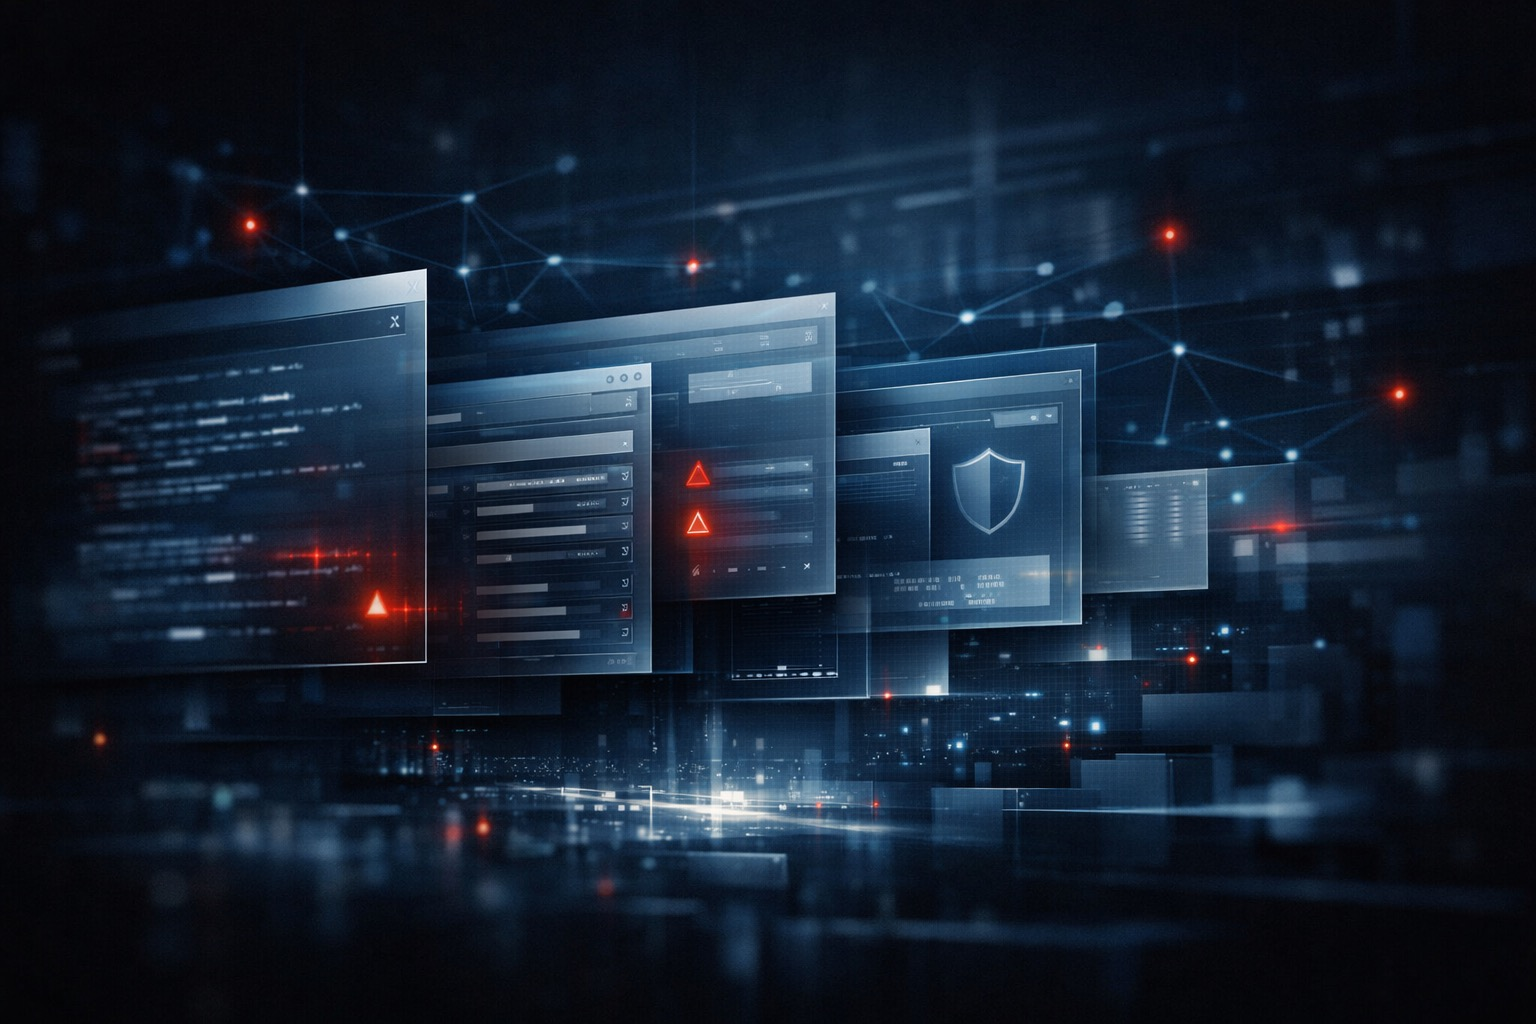
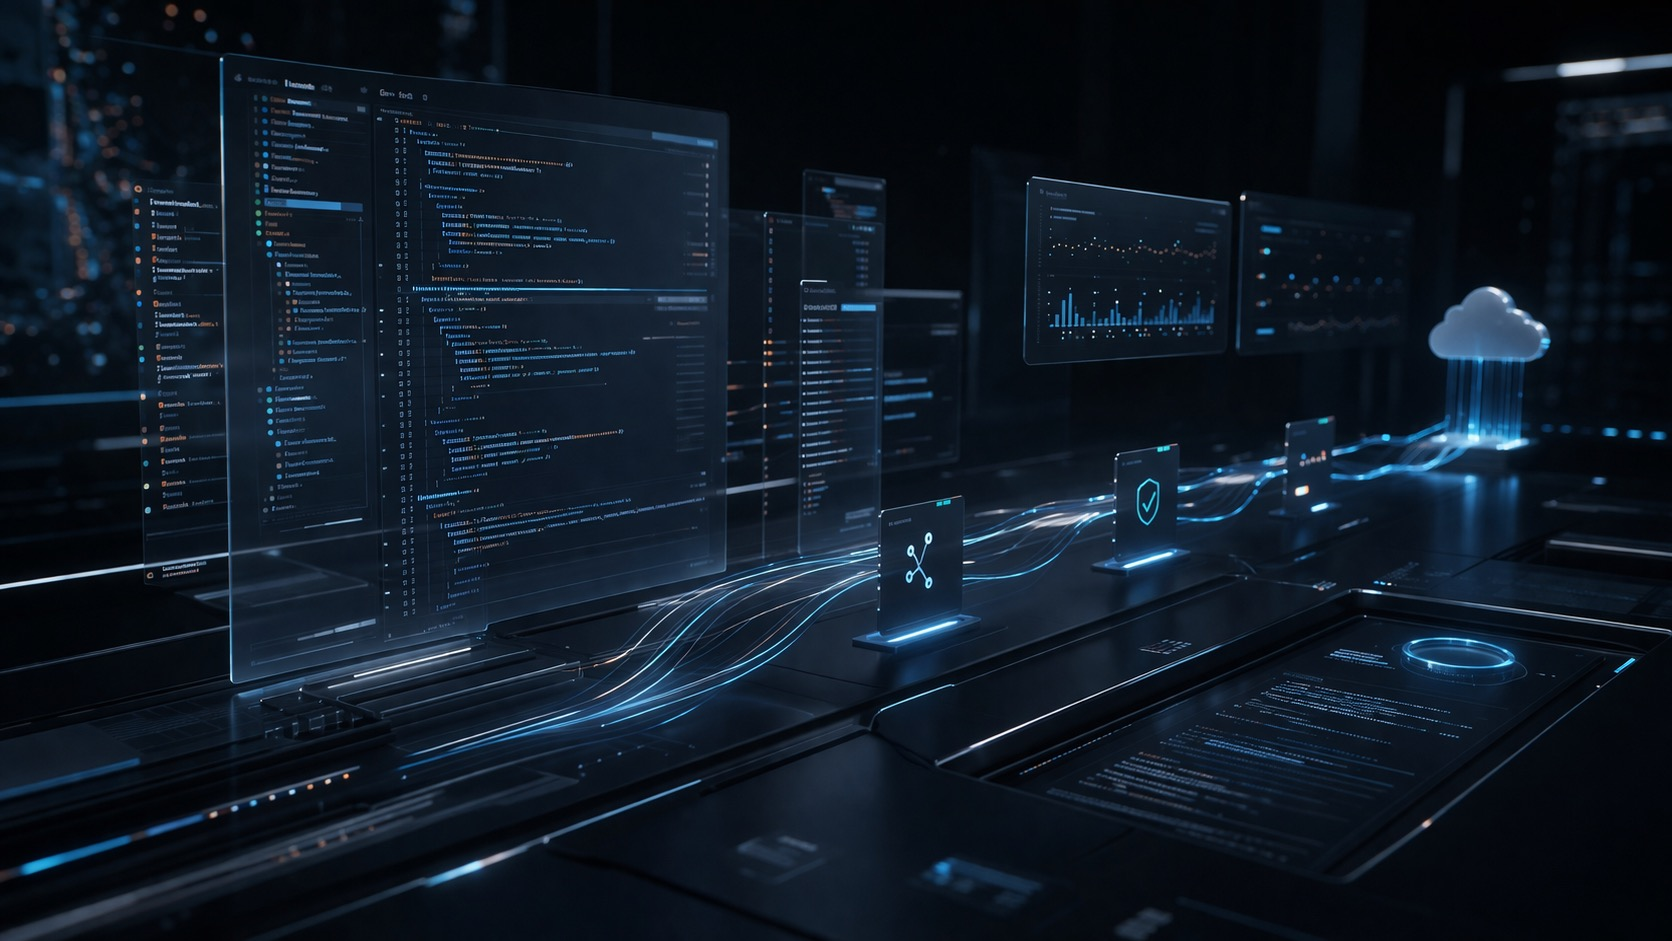
Add new homepage hero and align blog/article image usage

diff --git a/src/pages/JournalIndex.jsx b/src/pages/JournalIndex.jsx
@@ -3,10 +3,7 @@ import { IconArrow, IconPen, IconRadar, IconTerm } from "../components/Icons";
 import { posts, formatPostDate } from "../content/posts";
 import { usePageMetadata } from "../lib/metadata";
 import { getJournalIndexMetadata } from "../lib/pageMetadata";
-import {
-  getJournalCoverImage,
-  getPostCardImage,
-} from "../lib/postImages";
+import { getPostCardImage } from "../lib/postImages";
 import {
   buildHomeSectionPath,
   buildPostPath,
@@ -22,7 +19,6 @@ const COVERAGE_AREAS = [
 export default function JournalIndex() {
   const [featuredPost, ...archivePosts] = posts;
   const nextReadPost = archivePosts[0] ?? featuredPost;
-  const coverImage = getJournalCoverImage();
   const featuredCardImage = getPostCardImage(featuredPost);
 
   usePageMetadata(getJournalIndexMetadata());
@@ -118,17 +114,6 @@ export default function JournalIndex() {
               </a>
             </article>
           </div>
-
-          <figure className="journal-cover reveal revealed">
-            <img
-              src={coverImage.src}
-              alt={coverImage.alt}
-              className="journal-cover-image"
-              loading="eager"
-              decoding="async"
-              fetchPriority="high"
-            />
-          </figure>
         </div>
       </section>
 
@@ -155,19 +140,21 @@ export default function JournalIndex() {
 
                   return (
                     <article className="journal-row" key={post.slug}>
-                      <a
-                        href={buildPostPath(post)}
-                        className="journal-row-media"
-                        aria-label={`Read ${post.title}`}
-                      >
-                        <img
-                          src={cardImage.src}
-                          alt={cardImage.alt}
-                          className="journal-row-image"
-                          loading="lazy"
-                          decoding="async"
-                        />
-                      </a>
+                      {cardImage ? (
+                        <a
+                          href={buildPostPath(post)}
+                          className="journal-row-media"
+                          aria-label={`Read ${post.title}`}
+                        >
+                          <img
+                            src={cardImage.src}
+                            alt={cardImage.alt}
+                            className="journal-row-image"
+                            loading="lazy"
+                            decoding="async"
+                          />
+                        </a>
+                      ) : null}
                       <div className="journal-row-body">
                         <div className="journal-row-head">
                           <div className="journal-row-category">{post.category}</div>

diff --git a/src/styles/journal.css b/src/styles/journal.css
@@ -160,23 +160,6 @@
   line-height: 1.8;
   color: var(--ts);
 }
-.journal-cover {
-  margin-top: 32px;
-  border: 1px solid var(--b1);
-  background: rgba(7,7,15,0.88);
-  position: relative;
-  overflow: hidden;
-  aspect-ratio: 16 / 7;
-}
-.journal-cover::before {
-  content: '';
-  position: absolute;
-  inset: 0 0 auto;
-  height: 1px;
-  background: linear-gradient(90deg, transparent, var(--cyan), transparent);
-  opacity: .38;
-  z-index: 1;
-}
 .journal-chip-row {
   display: flex;
   flex-wrap: wrap;
@@ -399,6 +382,7 @@
 .article-dek { margin-top: 18px; }
 .article-hero-media {
   margin-top: 24px;
+  max-width: 980px;
   border: 1px solid var(--b1);
   background: rgba(7,7,15,0.88);
   position: relative;

diff --git a/src/lib/schema.js b/src/lib/schema.js
@@ -75,9 +75,9 @@ export function getJournalArticleSchema(post) {
     inLanguage: "en-GB",
     author: { "@id": PERSON_ID },
     publisher: { "@id": PERSON_ID },
-    image: buildAbsoluteUrl(socialImage.imagePath),
-    primaryImageOfPage: buildAbsoluteUrl(socialImage.imagePath),
-    thumbnailUrl: buildAbsoluteUrl(socialImage.imagePath),
+    image: buildAbsoluteUrl(socialImage.src),
+    primaryImageOfPage: buildAbsoluteUrl(socialImage.src),
+    thumbnailUrl: buildAbsoluteUrl(socialImage.src),
     articleSection: post.category,
     keywords: post.tags,
     isPartOf: { "@id": JOURNAL_ID },

diff --git a/src/content/posts/claude-mythos-ai-vulnerability-arms-race.js b/src/content/posts/claude-mythos-ai-vulnerability-arms-race.js
@@ -28,7 +28,7 @@ const post = {
   schemaType: "Article",
   articleImage: "/articles/heroes/claude-mythos-ai-vulnerability-arms-race-hero.jpg",
   articleImageAlt:
-    "A cybersecurity interface with alerts and shielding visuals representing the AI vulnerability arms race and remediation pressure.",
+    "A connected code and systems flow representing the AI vulnerability arms race and machine-speed remediation pressure.",
   tags: [
     "Claude Mythos",
     "Project Glasswing",

diff --git a/src/content/posts/claude-mythos-ai-security.js b/src/content/posts/claude-mythos-ai-security.js
@@ -27,7 +27,7 @@ const post = {
   schemaType: "Article",
   articleImage: "/articles/heroes/claude-mythos-ai-security-hero.jpg",
   articleImageAlt:
-    "Layered cybersecurity dashboards and alerts representing AI-driven vulnerability discovery and security oversight.",
+    "Code, telemetry, and security panels representing AI-driven vulnerability discovery and technical oversight.",
   tags: [
     "Claude Mythos",
     "Project Glasswing",

diff --git a/src/styles/responsive.css b/src/styles/responsive.css
@@ -37,7 +37,6 @@
   .article-more-shell,
   .article-hero-visual { padding: 24px 20px; }
   .journal-feature-media { margin: -24px -20px 20px; }
-  .journal-cover { margin-top: 24px; aspect-ratio: 16 / 9; }
   .journal-row-body { padding: 20px; }
   .article-hero-media { aspect-ratio: 4 / 3; }
   .article-intro { font-size: 17px; line-height: 1.8; }

diff --git a/src/lib/postImages.js b/src/lib/postImages.js
@@ -11,7 +11,7 @@ export function getJournalCoverImage() {
 
 export function getPostHeroImage(post) {
   if (!post?.articleImage) {
-    return getJournalCoverImage();
+    return null;
   }
 
   return {
